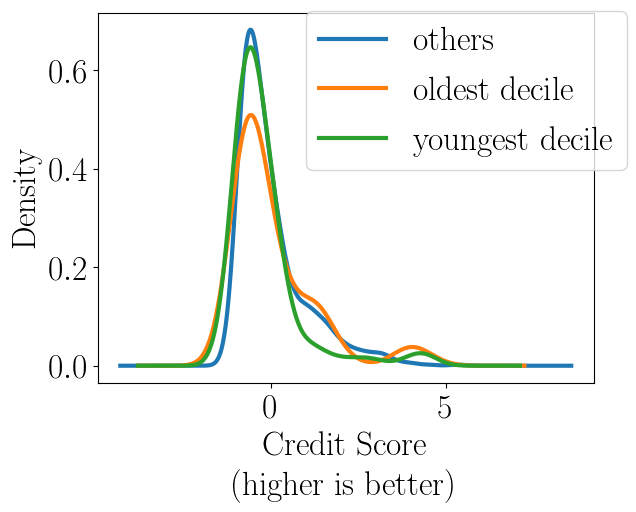
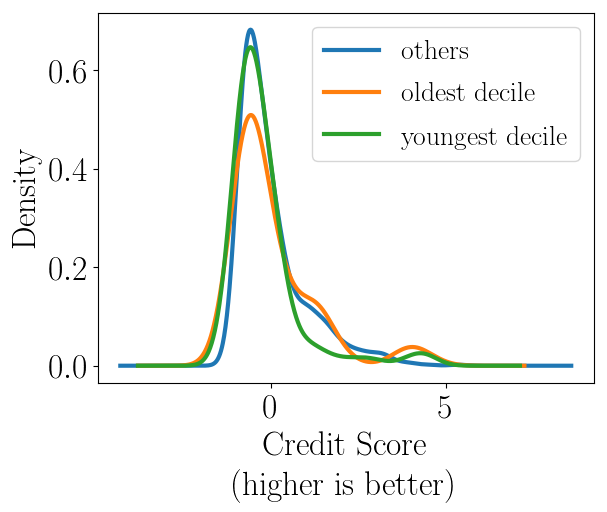
included dataset figures

diff --git a/paper/06-experiments.tex b/paper/06-experiments.tex
@@ -1,50 +1,65 @@
-\section{Experiments}\label{sec:experiments}
-%\todo{Are we still doing this experiment to verify algorithm correctness?}
-%In the first part of our experiments we create synthetic datasets to demonstrate the correctness of the adjustment done by Algorithm \algoCorrect (\S\ref{subsubsec:JuliaExperimentalVerification}).
 %
-In this section, we consider several public datasets for evaluating the multinomial \algoFAIR algorithm (datasets in \S\ref{sec:experiments-datasets}, metrics and comparison with baselines in \S\ref{sec:experiments-baselines}, and results in \S\ref{sec:experiments-results}).
-
-\begin{table}[t]
-	\caption{Datasets and experimental settings.}
-	\vspace{-3mm}
+\begin{table}[h]
 	\label{tbl:datasets}
 	\resizebox{1.01\columnwidth}{!}{%
 		\centering\begin{tabular}{clcclllc}\toprule
 			&        &                         &                         & Quality   & Protected & Protected \\
 			& Dataset & \multicolumn{1}{c}{$n$} & \multicolumn{1}{c}{$k$} & criterion & groups     & \% \\ 
 			\midrule
-			D1 & COMPAS \cite{angwin_2016_machine}& 6173 & 500 & ad-hoc score & PoC & 65.9\% \\
+			D1 & COMPAS \cite{angwin_2016_machine}& 6173 & 1500 & ad-hoc score & PoC & 65.9\% \\
 			\midrule
 			D2 & COMPAS \cite{angwin_2016_machine}& 6173 & 500 & recidivism + & PoC male & 54.7\%\\ 
 			& & & & prior arrests + & white male & 26.3\% \\
 			& & & & violent recidivism & PoC female & 11.2\% \\
 			\midrule
-			D3 & COMPAS \cite{angwin_2016_machine}& 6173 & 500 & recidivism + & male, 25yr. < x < 45yr. & 46.1\%\\ 
-			& & & & prior arrests + & male, < 25yr. & 17.8\% \\
-			& & & & violent recidivism & male, > 45yr. & 17.1\% \\
-			& & & & & female, < 25yr. & 4.0\% \\
-			& & & & & female, < 25yr. & 3.9\% \\
+			D3 & COMPAS \cite{angwin_2016_machine}& 6173 & 500 & recidivism + & PoC female, < 25yr. & 2.8\%\\ 
+			& & & & prior arrests + & white female, < 25yr. & 1.2\% \\
+			& & & & violent recidivism & PoC male, < 25yr. & 13.4\% \\
 			\midrule
-			D4 & COMPAS \cite{angwin_2016_machine}& 6173 & 500 & recidivism + & PoC, 25yr. < x < 45yr. & 40.0\%\\ 
-			& & & & prior arrests + & PoC, < 25yr. & 16.2\% \\
-			& & & & violent recidivism & PoC, > 45yr. & 10.8\% \\
-			& & & & & White, > 45yr. & 10.2\% \\
-			& & & & & White, < 25yr. & 5.6\% \\
-			\midrule
-			D5 & German credit \cite{lichman_2013_uci} & 1K & 500 & credit rating & female, non-prot. age & 21.7\% \\
+			D4 & German credit \cite{lichman_2013_uci} & 100 & 500 & credit rating & female, non-prot. age & 21.7\% \\
 			& & & & & male, oldest 10\% & 6.3\% \\
 			& & & & & female, youngest 10\% & 6.1\% \\
 			& & & & & male, youngest 10\% & 4.4\% \\
 			& & & & & female, oldest 10\% & 3.2\% \\
 			\midrule
-			D6 & LSAT \cite{wightman1998lsac}  & 21K & 2K  & LSAT score  & White, female & 35.3\%  \\ 
+			D5 & LSAT \cite{wightman1998lsac}  & 21K & 500  & LSAT score  & White, female & 35.3\%  \\ 
 			& & & & & PoC, female & 8.4\% \\
 			& & & & & PoC, male & 7.6\% \\
 			\bottomrule
 		\end{tabular}
 	}
+	\caption{Datasets and experimental settings.}
 	\vspace{-3mm}
 \end{table}
+%
+\section{Experiments}\label{sec:experiments}
+%\todo{Are we still doing this experiment to verify algorithm correctness?}
+%In the first part of our experiments we create synthetic datasets to demonstrate the correctness of the adjustment done by Algorithm \algoCorrect (\S\ref{subsubsec:JuliaExperimentalVerification}).
+%
+In this section, we consider several public datasets for evaluating the multinomial \algoFAIR algorithm (datasets in \S\ref{sec:experiments-datasets}, metrics and comparison with baselines in \S\ref{sec:experiments-baselines}, and results in \S\ref{sec:experiments-results}).
+
+\begin{figure}[t]
+	\centering
+	\subfloat%
+	[Score distribution of male and female candidates in the COMPAS dataset.
+	\label{fig:dataset:compas:sex}]
+	{\includegraphics[width=.48\textwidth]{pics/compas_sex_kde.png}}\hfill
+	\subfloat
+	[Score distribution of white and non-white candidates in the COMPAS dataset.
+	\label{fig:dataset:compas:race}]
+	{\includegraphics[width=.48\textwidth]{pics/compas_race_kde.png}}\hfill
+	\subfloat
+	[Score distribution by age in the COMPAS dataset. We see that age is a strong predictor of recidivism risk which suggests that the COMPAS questionnaire injects a bias against younger people into the data.
+	\label{fig:dataset:compas:age}]
+	{\includegraphics[width=.48\textwidth]{pics/compas_age_kde.png}}\hfill
+	\subfloat
+	[Score distribution protected and non-protected candidates in the COMPAS dataset. Protected groups are young non-white males, young non-white females and young white females, which are the three groups with lowest average exposure in the colorblind ranking.
+	\label{fig:dataset:compas:worstThree}]
+	{\includegraphics[width=.48\textwidth]{pics/compas_worstThreeGroups_kde.png}}\hfill
+	\caption{}
+	\label{fig:dataset:compas}
+	\vspace{-3mm}
+\end{figure}
 
 \subsection{Datasets}\label{sec:experiments-datasets}
 
@@ -54,7 +69,7 @@ Each dataset contains a set of people with demographic attributes, plus a qualit
 %
 Note that dataset D1 is the same experimental setup as in our previous paper~\cite{zehlike2017fair}, but instead of using the original algorithm \algoFAIR, we run the binomial experiment with the multinomial extension proposed in Section~\ref{sec:problem}.
 %
-For each dataset, we consider a value of $k$ that is a round number ({\em e.g.}, 500, or 2,000) with $k<n$.
+For each dataset, we consider a value of $k$ that is a round number ({\em e.g.}, 100, or 500) with $k<n$.
 %
 For the purposes of these experiments, we considered several scenarios of protected groups.
 %
@@ -72,9 +87,21 @@ We calculated a candidate's overall score as a weighted summation of the columns
 %
 Our protected groups are formed by different combination of the attributes ``race, age'' and ``sex'', where race is either ``white'' or ``non-white'', age is either ``younger than 25'', ``between 25 and 45'' or ``older than 45'', and sex is either ``male'' or ``female''.
 %
-We observe that non-white people, as well as males are given a larger recidivism score than other groups.
+We observe in Figure~\ref{fig:dataset:compas} that non-white people (\ref{fig:dataset:compas:race}), as well as males (\ref{fig:dataset:compas:sex}) are given a larger recidivism score than other groups.
 %
-We therefore consider white, female and between 25 and 45 as the \emph{non-protected} categories for our experiments.
+However we see in Figure~\ref{fig:dataset:compas:age} that the protected attribute ``age'' has the strongest impact on recidivism risk. 
+%
+Apparently the questionnaire imposes a strong bias against younger people.
+%
+We therefore consider white, female and older than 45 as the \emph{non-protected} categories for our experiments.
+%
+In dataset D3 we divided the candidates into 12 different groups that we constructed from the Cartesian product of all three protected categories ``age, race'' and ``sex''. 
+%
+Then we calculated the average group exposure for each group and declared those three groups as protected that were placed lowest in the colorblind ranking.
+%
+These are young non-white females, young white females and young non-white males.
+%
+Interestingly, despite the fact that females have higher scores on average, two of the three groups with lowest exposure values are female (Figure~\ref{fig:dataset:compas:worstThree}).
 
 \spara{German Credit} is the Statlog German Credit Data collected by Hans Hofmann~\cite{lichman_2013_uci}.
 %

diff --git a/experiments/dataExperiments/src/util.py b/experiments/dataExperiments/src/util.py
@@ -131,22 +131,7 @@ def orderingUtilityLossPerGroup(colorblindRanking, fairRanking, result):
                 result.at[result[result["group"] == groupName].index[0], "orderUtilLoss"] = orderUtilLoss
     return result
 
-
 ############################# VISUALISATION #############################################
-def plott(data, groups, filename, xLabel="", yLabel=""):
-    mpl.rcParams.update({'font.size': 24, 'lines.linewidth': 3,
-                         'lines.markersize': 15, 'font.family': 'Times New Roman'})
-    # avoid type 3 (i.e. bitmap) fonts in figures
-    mpl.rcParams['ps.useafm'] = True
-    mpl.rcParams['pdf.use14corefonts'] = True
-    mpl.rcParams['text.usetex'] = True
-
-    ax = data.plot(kind='line', use_index=False)
-    ax.legend(bbox_to_anchor=(1.05, 1), loc=2, borderaxespad=0.,
-              labels=groups)
-    ax.set_xlabel(xLabel)
-    ax.set_ylabel(yLabel)
-    plt.savefig(filename, dpi=100, bbox_inches='tight')
 
 
 def plotKDEPerGroup(data, score_attr, filename, colNames=None):
@@ -164,7 +149,8 @@ def plotKDEPerGroup(data, score_attr, filename, colNames=None):
     score_attr = score_attr.replace('_', '\_')
 
     plt.xlabel(score_attr)
-    plt.legend(bbox_to_anchor=(1.1, 1.05))
+#     plt.legend(bbox_to_anchor=(1.1, 1.05), prop={'size': 25})
+    plt.legend(bbox_to_anchor=(0, 0, 1, 1), prop={'size': 20})
     plt.savefig(filename, dpi=100, bbox_inches='tight')
 
 
@@ -233,8 +219,8 @@ def prepareForJavaCode(data, headersToFormAGroup):
 
     # write exposure per group in docString to decide who should be protected
     groupExposureFrame = pd.DataFrame(columns=["group"])
-    groupExposureFrame["group"] = data["group"].unique()
-    groupExposureFrame = averageGroupExposure(data, groupExposureFrame)
+    groupExposureFrame["group"] = result["group"].unique()
+    groupExposureFrame = averageGroupExposure(result, groupExposureFrame)
     groupExposureFrame.sort_values(by=["exposure"], ascending=False, inplace=True)
     docString = docString + "\n\nExposure Per Groups\n" + str(groupExposureFrame)
 

diff --git a/experiments/dataExperiments/src/visualize.py b/experiments/dataExperiments/src/visualize.py
@@ -12,25 +12,25 @@ def visualizeOrigCompasData():
     data = pd.read_csv("../data/COMPAS/compas_sex_java.csv", header=0, skipinitialspace=True)
     labels = {"0": "females",
               "1": "males"}
-    plotKDEPerGroup(data, "Negative Recidivism Risk\n(higher is better)", "../data/COMPAS/compas_sex_kde.png", colNames=labels)
+    plotKDEPerGroup(data, "Negative Recidivism Risk", "../data/COMPAS/compas_sex_kde.png", colNames=labels)
 
     data = pd.read_csv("../data/COMPAS/compas_race_java.csv", header=0, skipinitialspace=True)
     labels = {"0": "white",
               "1": "non-white"}
-    plotKDEPerGroup(data, "Negative Recidivism Risk\n(higher is better)", "../data/COMPAS/compas_race_kde.png", colNames=labels)
+    plotKDEPerGroup(data, "Negative Recidivism Risk", "../data/COMPAS/compas_race_kde.png", colNames=labels)
 
     data = pd.read_csv("../data/COMPAS/compas_age_java.csv", header=0, skipinitialspace=True)
     labels = {"0": "older 45",
               "2": "younger 25",
               "1": "25 - 45"}
-    plotKDEPerGroup(data, "Negative Recidivism Risk\n(higher is better)", "../data/COMPAS/compas_age_kde.png", colNames=labels)
+    plotKDEPerGroup(data, "Negative Recidivism Risk", "../data/COMPAS/compas_age_kde.png", colNames=labels)
 
     data = pd.read_csv("../data/COMPAS/compas_worstThreeGroups_java.csv", header=0, skipinitialspace=True)
-    labels = {"0": "all others",
-              "1": "young non-white females",
-              "2": "young white females",
-              "3": "young non-white males"}
-    plotKDEPerGroup(data, "Negative Recidivism Risk\n(higher is better)", "../data/COMPAS/compas_worstThreeGroups_kde.png", colNames=labels)
+    labels = {"0": "others",
+              "1": "Y NW F",
+              "2": "Y W F",
+              "3": "Y NW M"}
+    plotKDEPerGroup(data, "Negative Recidivism Risk", "../data/COMPAS/compas_worstThreeGroups_kde.png", colNames=labels)
 
 
 def visualizeOrigGermanCreditData():
